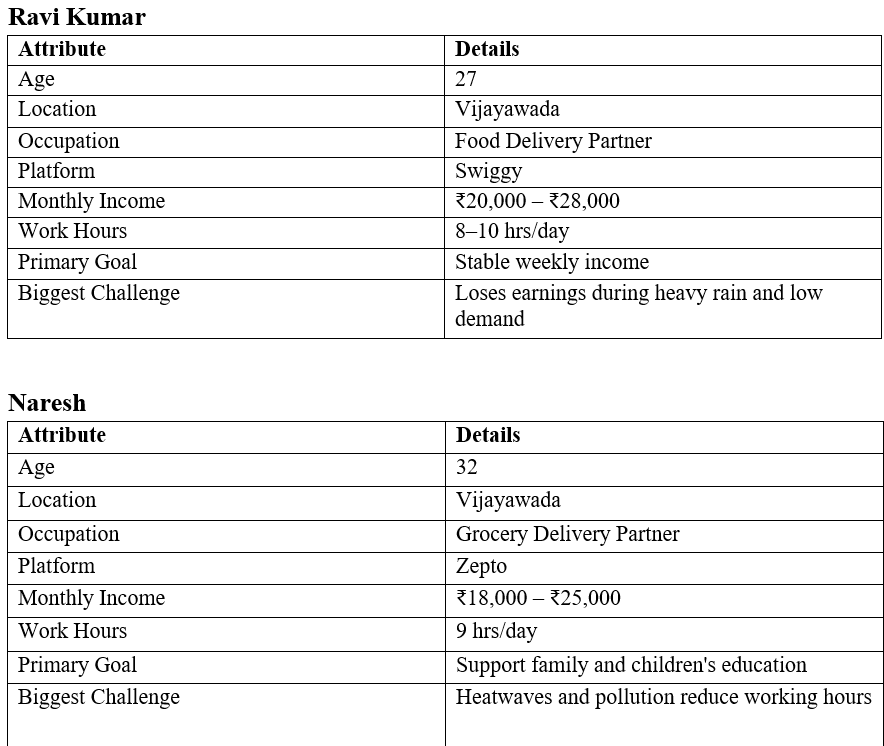
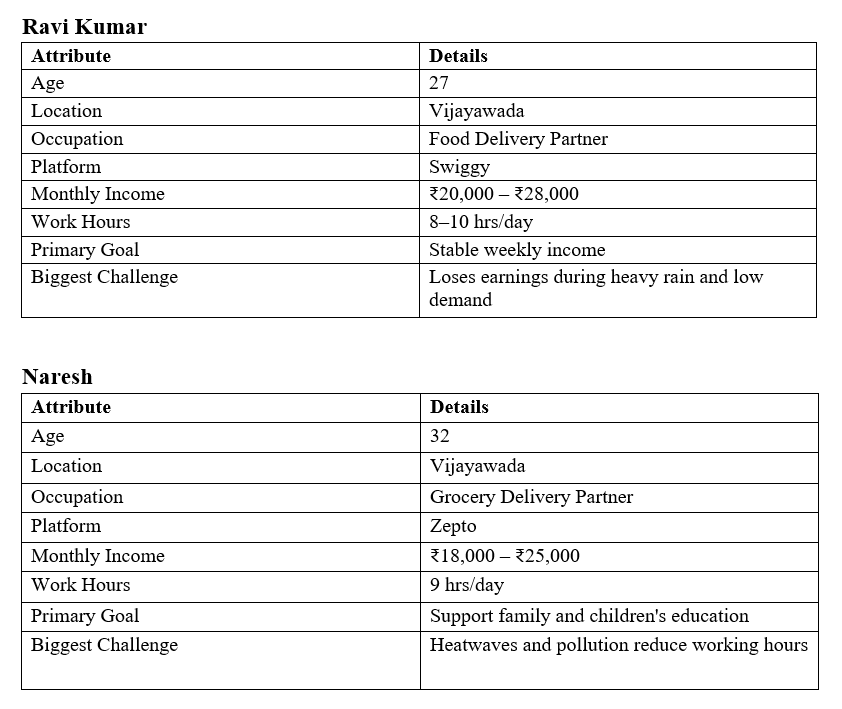
spacing

Changed region(s): [[0.0, 0.0, 1.0, 0.4654], [0.0, 0.5275, 1.0, 0.9929], [0.9572, 0.7757, 1.0, 0.8378]]

diff --git a/README.md b/README.md
@@ -13,6 +13,7 @@ Visual Representation of the Problem: <br>
 To better understand the challenges faced by gig workers, we conducted informal interviews and discussions with delivery partners working on platforms such as Zomato, Swiggy, Amazon, and Zepto.
 The goal of these interviews was to learn about their daily work routines, income patterns, and the risks they face due to external disruptions such as weather conditions, pollution, or reduced delivery demand.
 From these conversations, we identified several common behavioral patterns, needs, and pain points among gig workers. Using these insights, we created three representative user personas that reflect the typical experiences of delivery partners in India’s gig economy. <br>
+
 ![alt text](images/persona.png)
 
 # Interview Insights
@@ -53,7 +54,8 @@ In high-risk zones, premiums follow a risk-adjusted structure to account for the
 # Parametric Triggers
 
 ## Introduction
-Parametric triggers are predefined conditions that automatically activate insurance payouts when a disruption occurs. Instead of relying on manual claim verification, payouts are determined using trusted external data sources such as weather conditions, pollution levels, or official government alerts. This approach enables faster, transparent, and efficient compensation for gig delivery workers affected by external disruptions.
+Parametric triggers are predefined conditions that automatically activate insurance payouts when a disruption occurs. Instead of relying on manual claim verification, payouts are determined using trusted external data sources such as weather conditions, pollution levels, or official government alerts. This approach enables faster, transparent, and efficient compensation for gig delivery workers affected by external disruptions. <br>
+
 ![alt text](images/TriggerFlow.jpeg)
 
 ## Purpose of Parametric Triggers in the Platform
@@ -130,29 +132,29 @@ Parametric triggers improve efficiency, transparency, and reliability in the ins
 
 ![alt text](images/SystemArchitecture.png)
 
-**Web Application**
+**Web Application** <br>
 Allows delivery workers to register, view coverage, track premiums, and receive payout notifications.
-**Backend Server**
+**Backend Server** <br>
 Handles authentication, policy management, premium calculation, and claim processing.
-**AI Engine**
-Analyzes environmental data and worker activity to calculate risk scores and detect fraud.
-**External APIs**
+**AI Engine** <br>
+Analyzes environmental data and worker activity to calculate risk scores and detect fraud. 
+**External APIs** <br>
 Weather, air quality, and GPS data are used to monitor disruptions and validate worker location.
-**Payment System**
+**Payment System** <br>
 Processes instant payouts through UPI or payment gateways.
 
 # AI Integration
 
 The platform uses AI to automate risk analysis, premium calculation, and fraud detection.
-**Risk Scoring**
+**Risk Scoring** <br>
 AI analyzes weather patterns, pollution levels, and disruption history to calculate a risk score for delivery zones.
-**Dynamic Premium Calculation**
+**Dynamic Premium Calculation** <br>
 The system determines a weekly premium based on the risk score and worker activity.
-**Disruption Monitoring**
+**Disruption Monitoring** <br>
 Real-time environmental data such as rainfall, temperature, and AQI is monitored to detect delivery disruptions.
-**Fraud Detection**
+**Fraud Detection** <br>
 AI identifies suspicious activities like GPS spoofing, duplicate claims, or inactive workers requesting payouts.
-**Automated Claim Trigger**
+**Automated Claim Trigger** <br>
 When a disruption threshold is reached and the worker is eligible, the claim is automatically triggered.
 
 # Financial Model & Sustainability
@@ -168,8 +170,7 @@ Weekly premium: <br>
 ₹0.50 × 20 × 7 = ₹70 per rider <br>
 
 High-Risk Zone (Essential Plan) <br>
-Per delivery contribution: ₹0.60
-
+Per delivery contribution: ₹0.60 <br>
 Weekly premium: <br>
 ₹0.60 × 20 × 7 = ₹84 per rider
 
@@ -211,10 +212,10 @@ Remaining Buffer = ₹5,450
 
 ## 9. Sustainability Mechanism
 The system maintains financial stability through: <br>
-Pooled-risk model across all riders <br>
-Lower payout per event in high-risk zones to offset higher frequency <br>
-Parametric triggers to eliminate manual claims and reduce fraud <br>
-Weekly payout caps to control excessive losses
+ • Pooled-risk model across all riders <br>
+ • Lower payout per event in high-risk zones to offset higher frequency <br>
+ • Parametric triggers to eliminate manual claims and reduce fraud <br>
+ • Weekly payout caps to control excessive losses
 
 # Tech Stack
 ## Web Application
